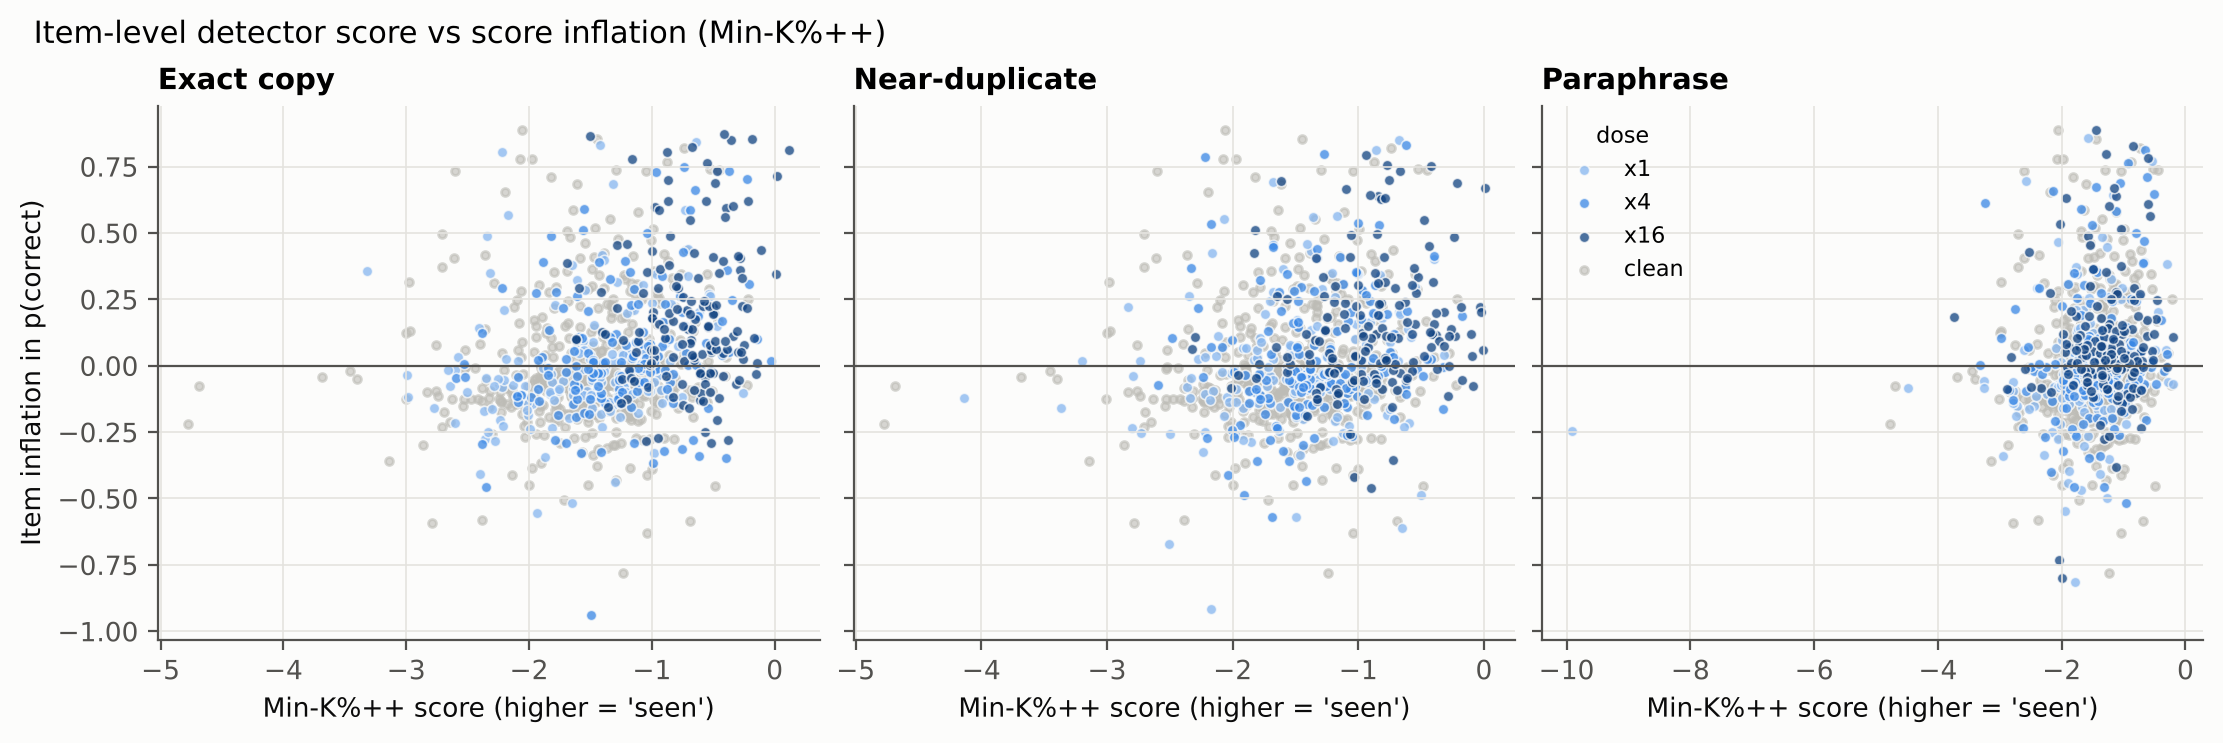
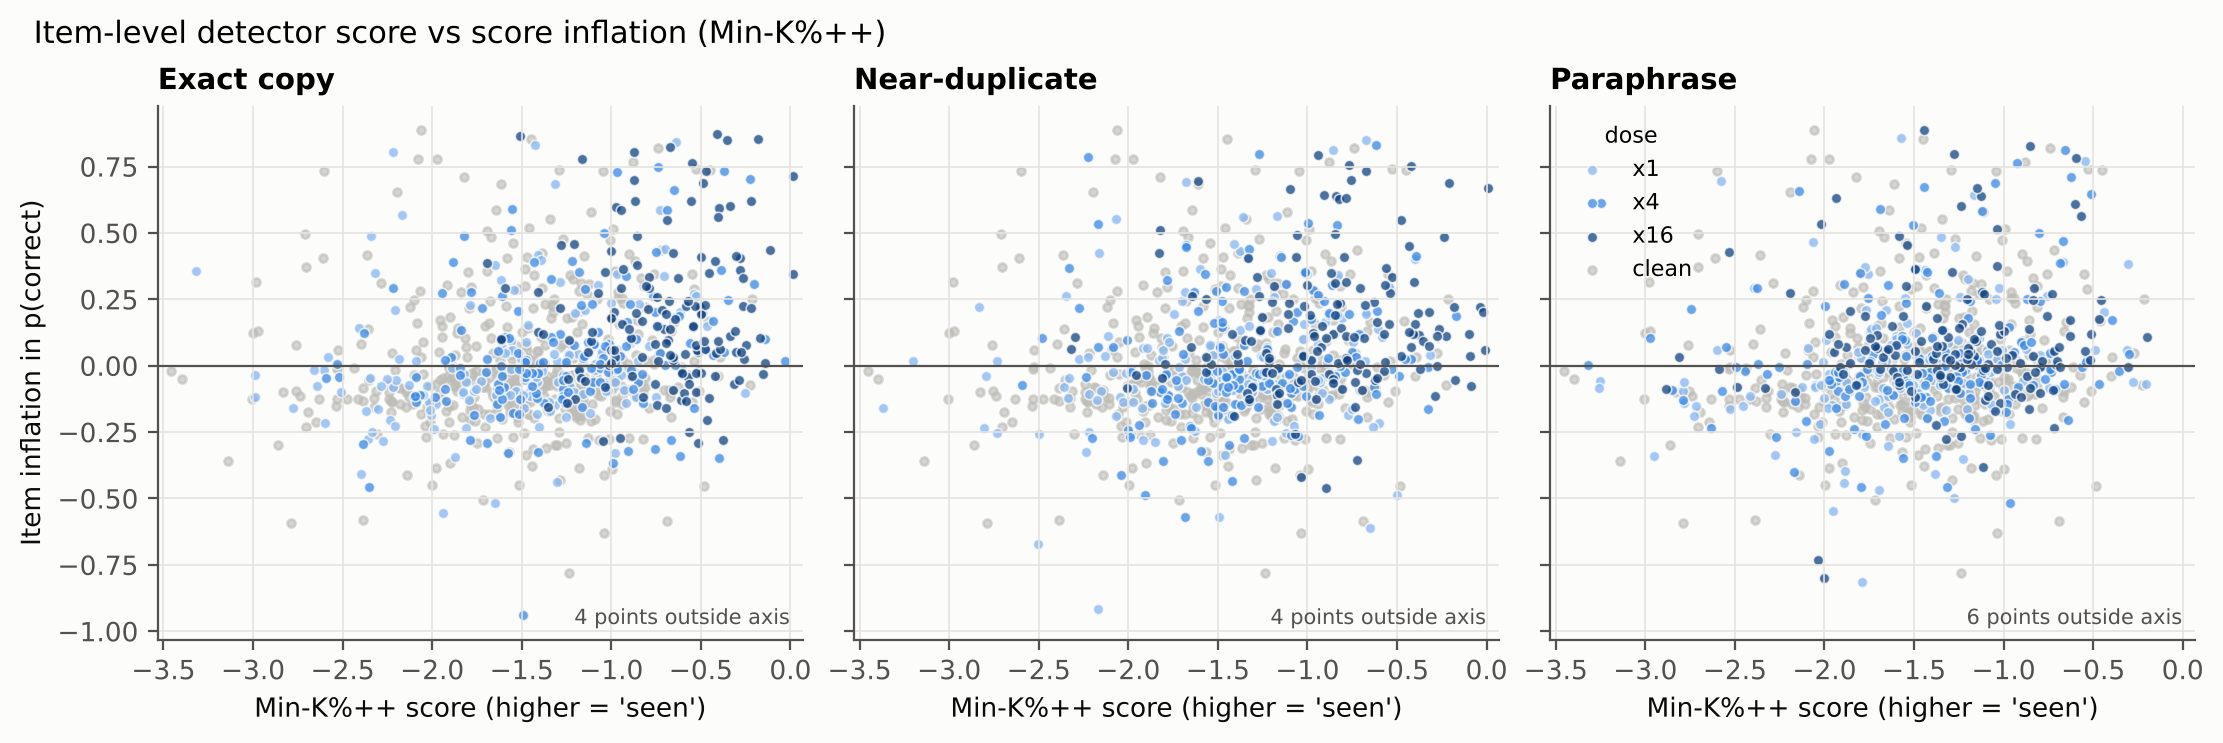
Scatter figure: score axis limited to the data range, outliers counted

diff --git a/dcl/figures.py b/dcl/figures.py
@@ -146,6 +146,17 @@ def fig_scatter(avg, out, det="det_minkpp"):
         ax.axhline(0, color=INK2, lw=0.8)
         ax.set_title(OVERLAP_LAB[o], loc="left")
         ax.set_xlabel(f"{lab} score (higher = 'seen')")
+    # common x-range from the 0.5th-99.5th percentile, so a few extreme scores do not compress the panels
+    shown = avg[avg["group"].isin(["clean"] + [f"{o}_x{d}" for o in C.OVERLAPS for d in C.DOSES])]
+    lo, hi = shown[det].quantile([0.005, 0.995])
+    pad = 0.05 * (hi - lo)
+    for ax, o in zip(axes, C.OVERLAPS):
+        ax.set_xlim(lo - pad, hi + pad)
+        sub = shown[shown["group"].isin(["clean"] + [f"{o}_x{d}" for d in C.DOSES])]
+        n_out = int(((sub[det] < lo - pad) | (sub[det] > hi + pad)).sum())
+        if n_out:
+            ax.text(0.98, 0.02, f"{n_out} point{'s' if n_out > 1 else ''} outside axis", transform=ax.transAxes,
+                    ha="right", va="bottom", fontsize=7.5, color=INK2)
     axes[0].set_ylabel("Item inflation in p(correct)")
     axes[-1].legend(title="dose", fontsize=8, title_fontsize=8, loc="upper left")
     fig.suptitle(f"Item-level detector score vs score inflation ({lab})", x=0.01, ha="left", fontsize=11)
